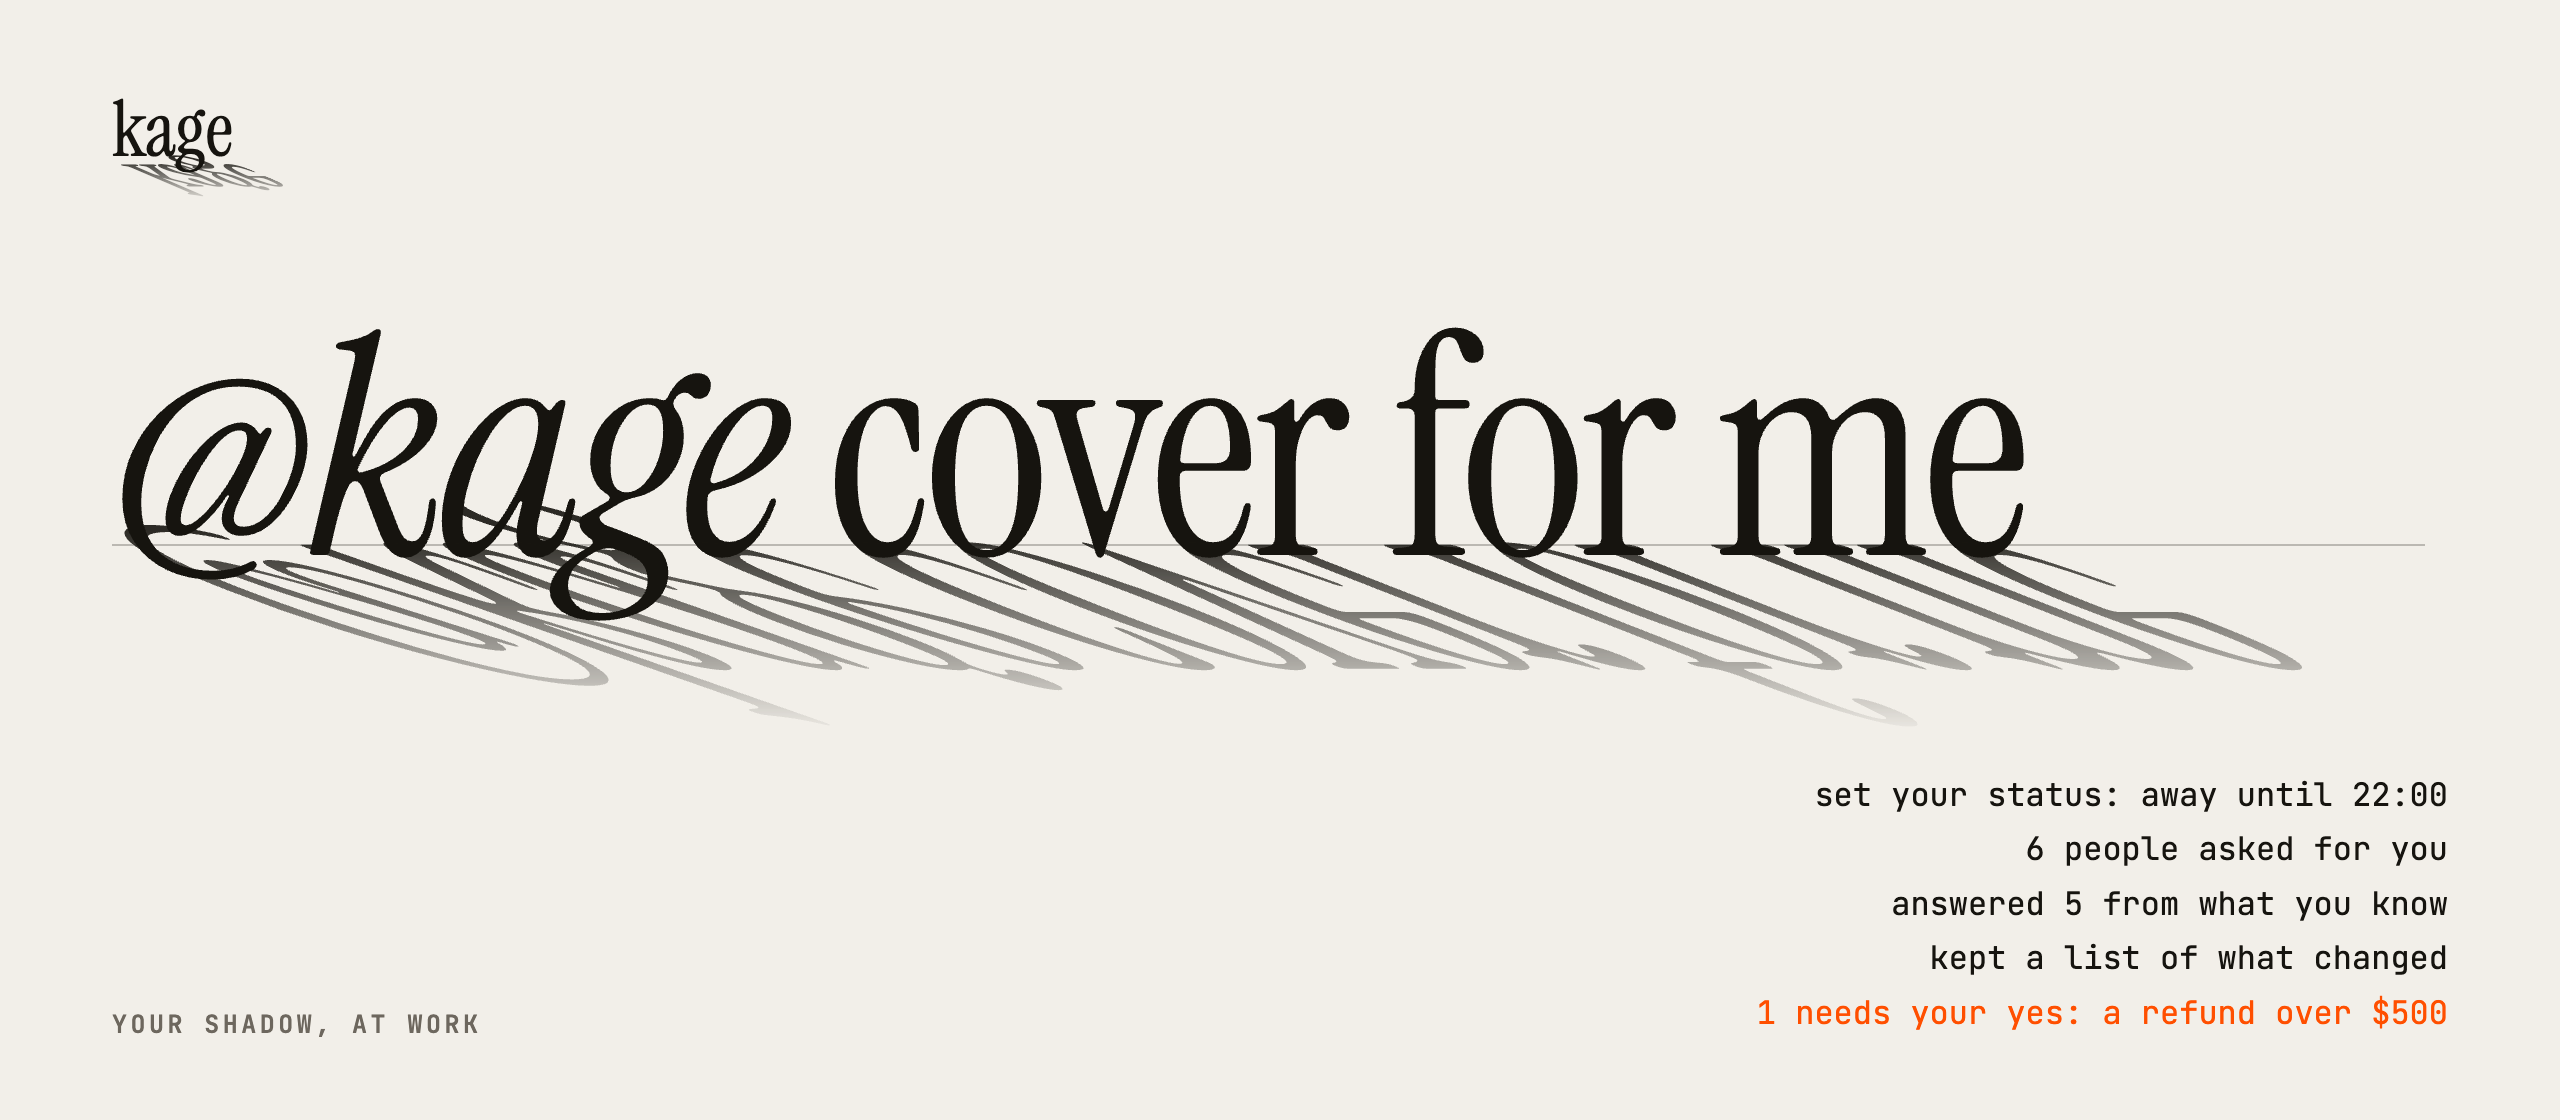
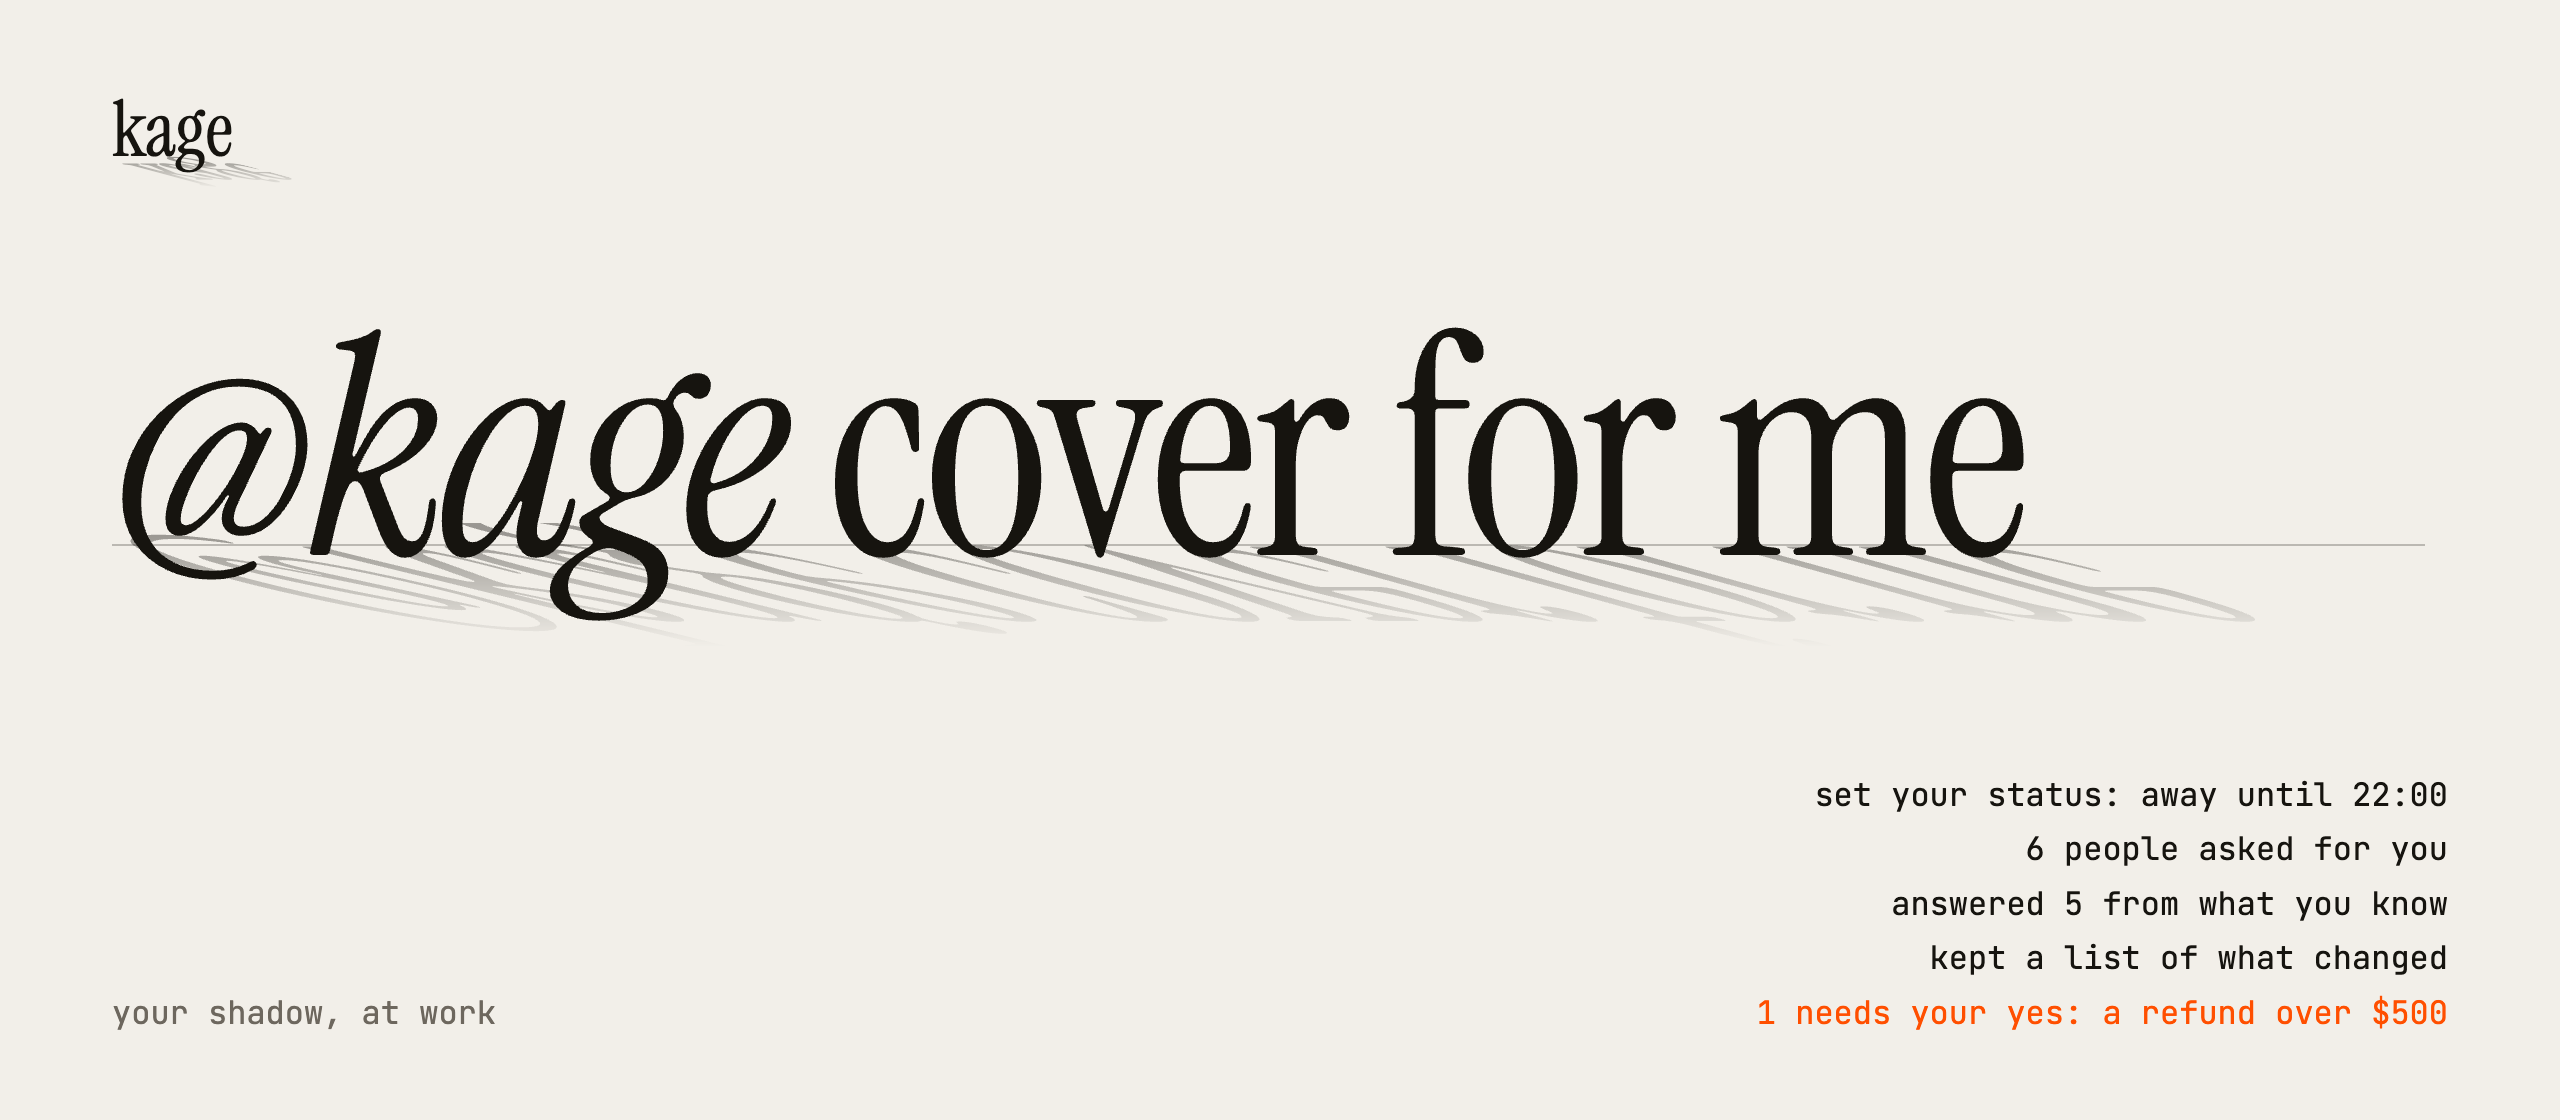
Cleaner diagram and hero images
how-it-works.svg showed the old flow (server.ts gate, tmux, channels) with labels over the box edge. It now shows the hub and the Agent SDK session, in sentence case, with nothing overlapping. The hero's cast shadow is shorter and lighter, and the tag is no longer uppercase with wide tracking.

Changed region(s): [[0.0312, 0.4688, 0.9062, 0.625], [0.0312, 0.875, 0.1875, 0.9375], [0.0625, 0.125, 0.125, 0.1875]]

diff --git a/docs/brand/brand.html b/docs/brand/brand.html
@@ -15,9 +15,9 @@ section:target { display: block; }
 
 /* The cast: the same letters, flipped onto the ground and slanted away from the light. */
 .cast { position: relative; display: inline-block; line-height: 1; }
-.cast .shadow { position: absolute; left: 0; top: 0; white-space: nowrap; color: var(--shade); opacity: .9;
+.cast .shadow { position: absolute; left: 0; top: 0; white-space: nowrap; color: var(--shade); opacity: .4;
   transform-origin: 0 82%; transform: scaleY(calc(-1 * var(--len))) skewX(calc(-1 * var(--skew)));
-  -webkit-mask-image: linear-gradient(to bottom, transparent 5%, #000 90%); }
+  -webkit-mask-image: linear-gradient(to bottom, transparent 15%, #000 92%); }
 
 .hero { width: 1280px; height: 560px; padding: 40px 56px; background: var(--light); color: var(--shade); position: relative; overflow: hidden; }
 .hero .word { font: 400 2.4rem var(--you); }
@@ -26,7 +26,7 @@ section:target { display: block; }
 .hero .say i { font-style: italic; }
 .hero .work { position: absolute; right: 56px; bottom: 40px; text-align: right; font: 1rem/1.7 var(--kage); }
 .hero .work .needs { color: var(--signal); }
-.hero .tag { position: absolute; left: 56px; bottom: 40px; font: 600 .78rem var(--kage); letter-spacing: .14em; text-transform: uppercase; color: var(--mid); }
+.hero .tag { position: absolute; left: 56px; bottom: 40px; font: 400 1rem/1.7 var(--kage); color: var(--mid); }
 </style>
 
 <!-- App icon, as on the Cast page. 96 units, rendered at 512 px. -->
@@ -36,8 +36,8 @@ section:target { display: block; }
 <!-- README hero: what you typed, its evening shadow, and the work Kage did in it. -->
 <template id="hero">
   <div class="hero">
-    <span class="cast word">kage<span class="shadow" style="--len:.55; --skew:52deg">kage</span></span>
-    <div class="say"><span class="cast"><i>@kage</i> cover for me<span class="shadow" style="--len:.8; --skew:64deg"><i>@kage</i> cover for me</span></span></div>
+    <span class="cast word">kage<span class="shadow" style="--len:.4; --skew:56deg">kage</span></span>
+    <div class="say"><span class="cast"><i>@kage</i> cover for me<span class="shadow" style="--len:.48; --skew:60deg"><i>@kage</i> cover for me</span></span></div>
     <div class="work">
       <div>set your status: away until 22:00</div>
       <div>6 people asked for you</div>
